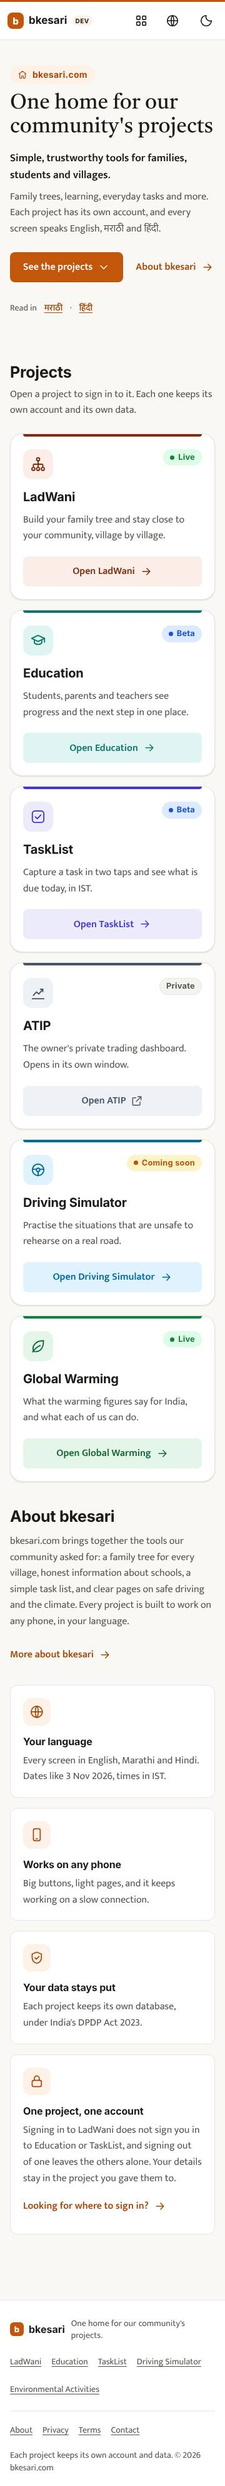
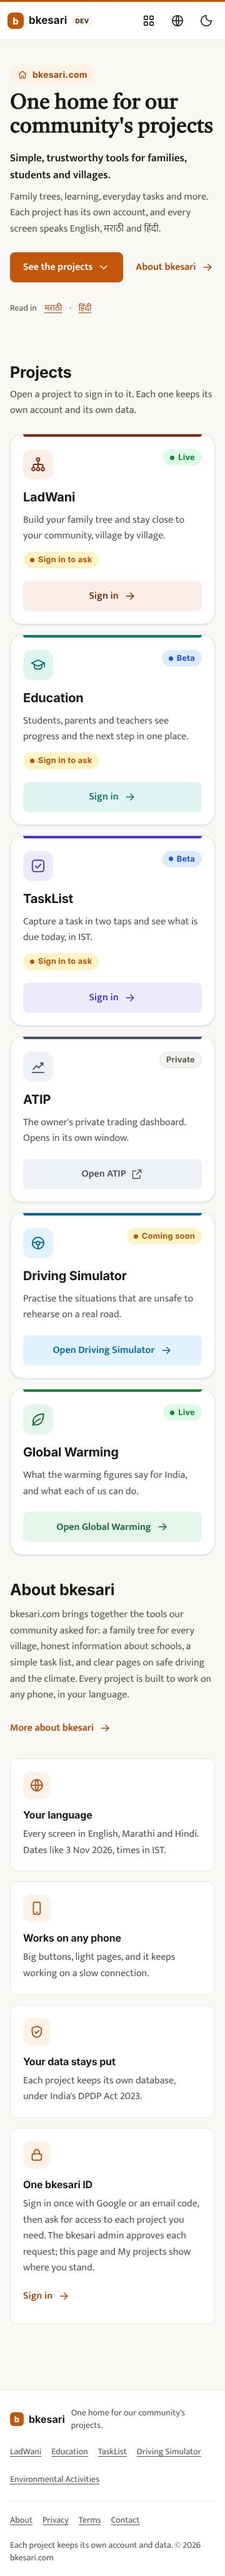
Screen inventory and screenshots for the merged shared screens
The bkesari ID's sign-in, request access, My projects, admin queue and the
signed-in home, before (main at 2d03d98, run locally) and after; the dropped
drafts' screenshots removed.

Claude-Session: https://claude.ai/code/session_01CqprRddpjVeLYpQqJrF8HL

diff --git a/docs/design/screen-inventory.md b/docs/design/screen-inventory.md
@@ -2,8 +2,10 @@
 
 Every in-scope screen, where it lives, the states it shows, and its before/after screenshots
 (`docs/design/screens/before|after/<id>-360.jpg` and `-1440.jpg`; JPEG, full page). "Before" is
-production (bkesari.com) on 17 Nov 2026 for public pages, and `main` run locally for signed-in
-pages; a new screen's "before" is what production answered at that address (usually its 404).
+production (bkesari.com) on 17 Nov 2026 for public pages; for the bkesari ID's screens (sign-in,
+request access, My projects, the admin queue, the signed-in home) it is `main` at 2d03d98 run
+locally, since production had not yet been updated to it; for LadWani's and Education's signed-in
+screens it is `main` at 4aaa7fd run locally with the same data.
 Status values follow the product tracker: Not started / In progress / Done / Blocked.
 
 Design system: [design-system.md](design-system.md). Decisions: [decisions.md](decisions.md) D-039 (the bkesari ID) and D-040 onward (this redesign).
@@ -12,15 +14,15 @@ Design system: [design-system.md](design-system.md). Decisions: [decisions.md](d
 
 | ID | Screen | Route | States shown | Primary action | Status |
 |---|---|---|---|---|---|
-| hub-home | Home: hero, project grid (icon, name, one line, Open), about, footer | `/` | announcement banner when set; Marathi/Hindi via `k_lang` | See the projects | Done |
+| hub-home | Home: hero, project grid (icon, name, one line, one action), about, footer | `/` | announcement banner when set; Marathi/Hindi via `k_lang` | See the projects | Done |
+| hub-home-signed-in | Home with a bkesari ID: each card shows the person's access (open, pending, request, signed out) and the matching action | `/` | approved, awaiting LadWani, pending, request, sign in | the card's action | Done |
 | hub-about | About | `/about` | — | — | Done (on 1.1.0 shell) |
-| hub-sign-in | Sign in (one card per project, its own sign-in) | `/auth/sign-in` | — | the chosen project's sign-in | Done |
-| hub-request-access | Request access, step 1: choose a project | `/request-access` | error when continuing with none (400, inline alert) | Continue | Done |
-| hub-request-access-2 | Request access, step 2: what the project asks, who approves | `/request-access?project=…` | LadWani (operator), Education (school), TaskList (open) | Continue to the project's sign-up | Done |
-| hub-account | My projects and access | `/account` | per project: checking (skeleton), signed in + level, waiting for approval, not signed in, could not check (Try again); ATIP row for the owner; open projects | Open / Sign in | Done |
-| hub-account-signed-in | My projects with a TaskList session | `/account` | signed in as a TaskList member | Open TaskList | Done |
-| hub-admin-sign-in | Hub admin sign-in | `/admin` | inline error | Sign in | Done (on 1.1.0) |
-| hub-admin | Hub admin: access approvals, tiles, banner, inbox | `/admin` | approvals panel per project; tiles; announcement; messages | Open a project's queue | Done |
+| hub-signin | **Unified sign-in** (bkesari ID, D-039): Google first, the email code, built-in administrators' password; aside naming every project and whether it needs approval | `/auth/sign-in?next=` | Google on/off; code sent; dev-only code; errors (`?error=google_…`) | Continue with Google (else Email me a code) | Done |
+| hub-access-request | **Request access to a project**: the project's icon and accent, the steps (request, approval, LadWani's operator check, open), role and note | `/access/request?project=` | form; pending (waiting); declined / revoked with reason | Send request | Done |
+| hub-account | **My projects** (profile): who you are, each project's access in words with the approver and date, the next action; your requests | `/account` | approved, awaiting, pending, declined, revoked, request, open; no requests yet | the row's action | Done |
+| hub-admin-access | **Admin approval screen**: requests (approve with a role, decline with a reason), people (change role, revoke, grant, suspend), filters | `/admin/access` | pending count; filtered; nothing here | Approve | Done |
+| hub-admin-sign-in | Hub admin sign-in (tiles, banner, inbox) | `/admin` | inline error | Sign in | Done (on 1.1.0) |
+| hub-admin | Hub admin: link to the access queue, tiles, banner, inbox | `/admin` | tiles; announcement; messages | Save | Done |
 | hub-contact | Contact | `/contact` | topic preselected by `?topic=`; inline errors; sent | Send | Done |
 | hub-privacy | Privacy notice (DPDP Act 2023) | `/privacy` | — | — | Done (on 1.1.0 shell) |
 | hub-404 | Not found | any unknown path | project shortcuts | Go to the home page | Done |
